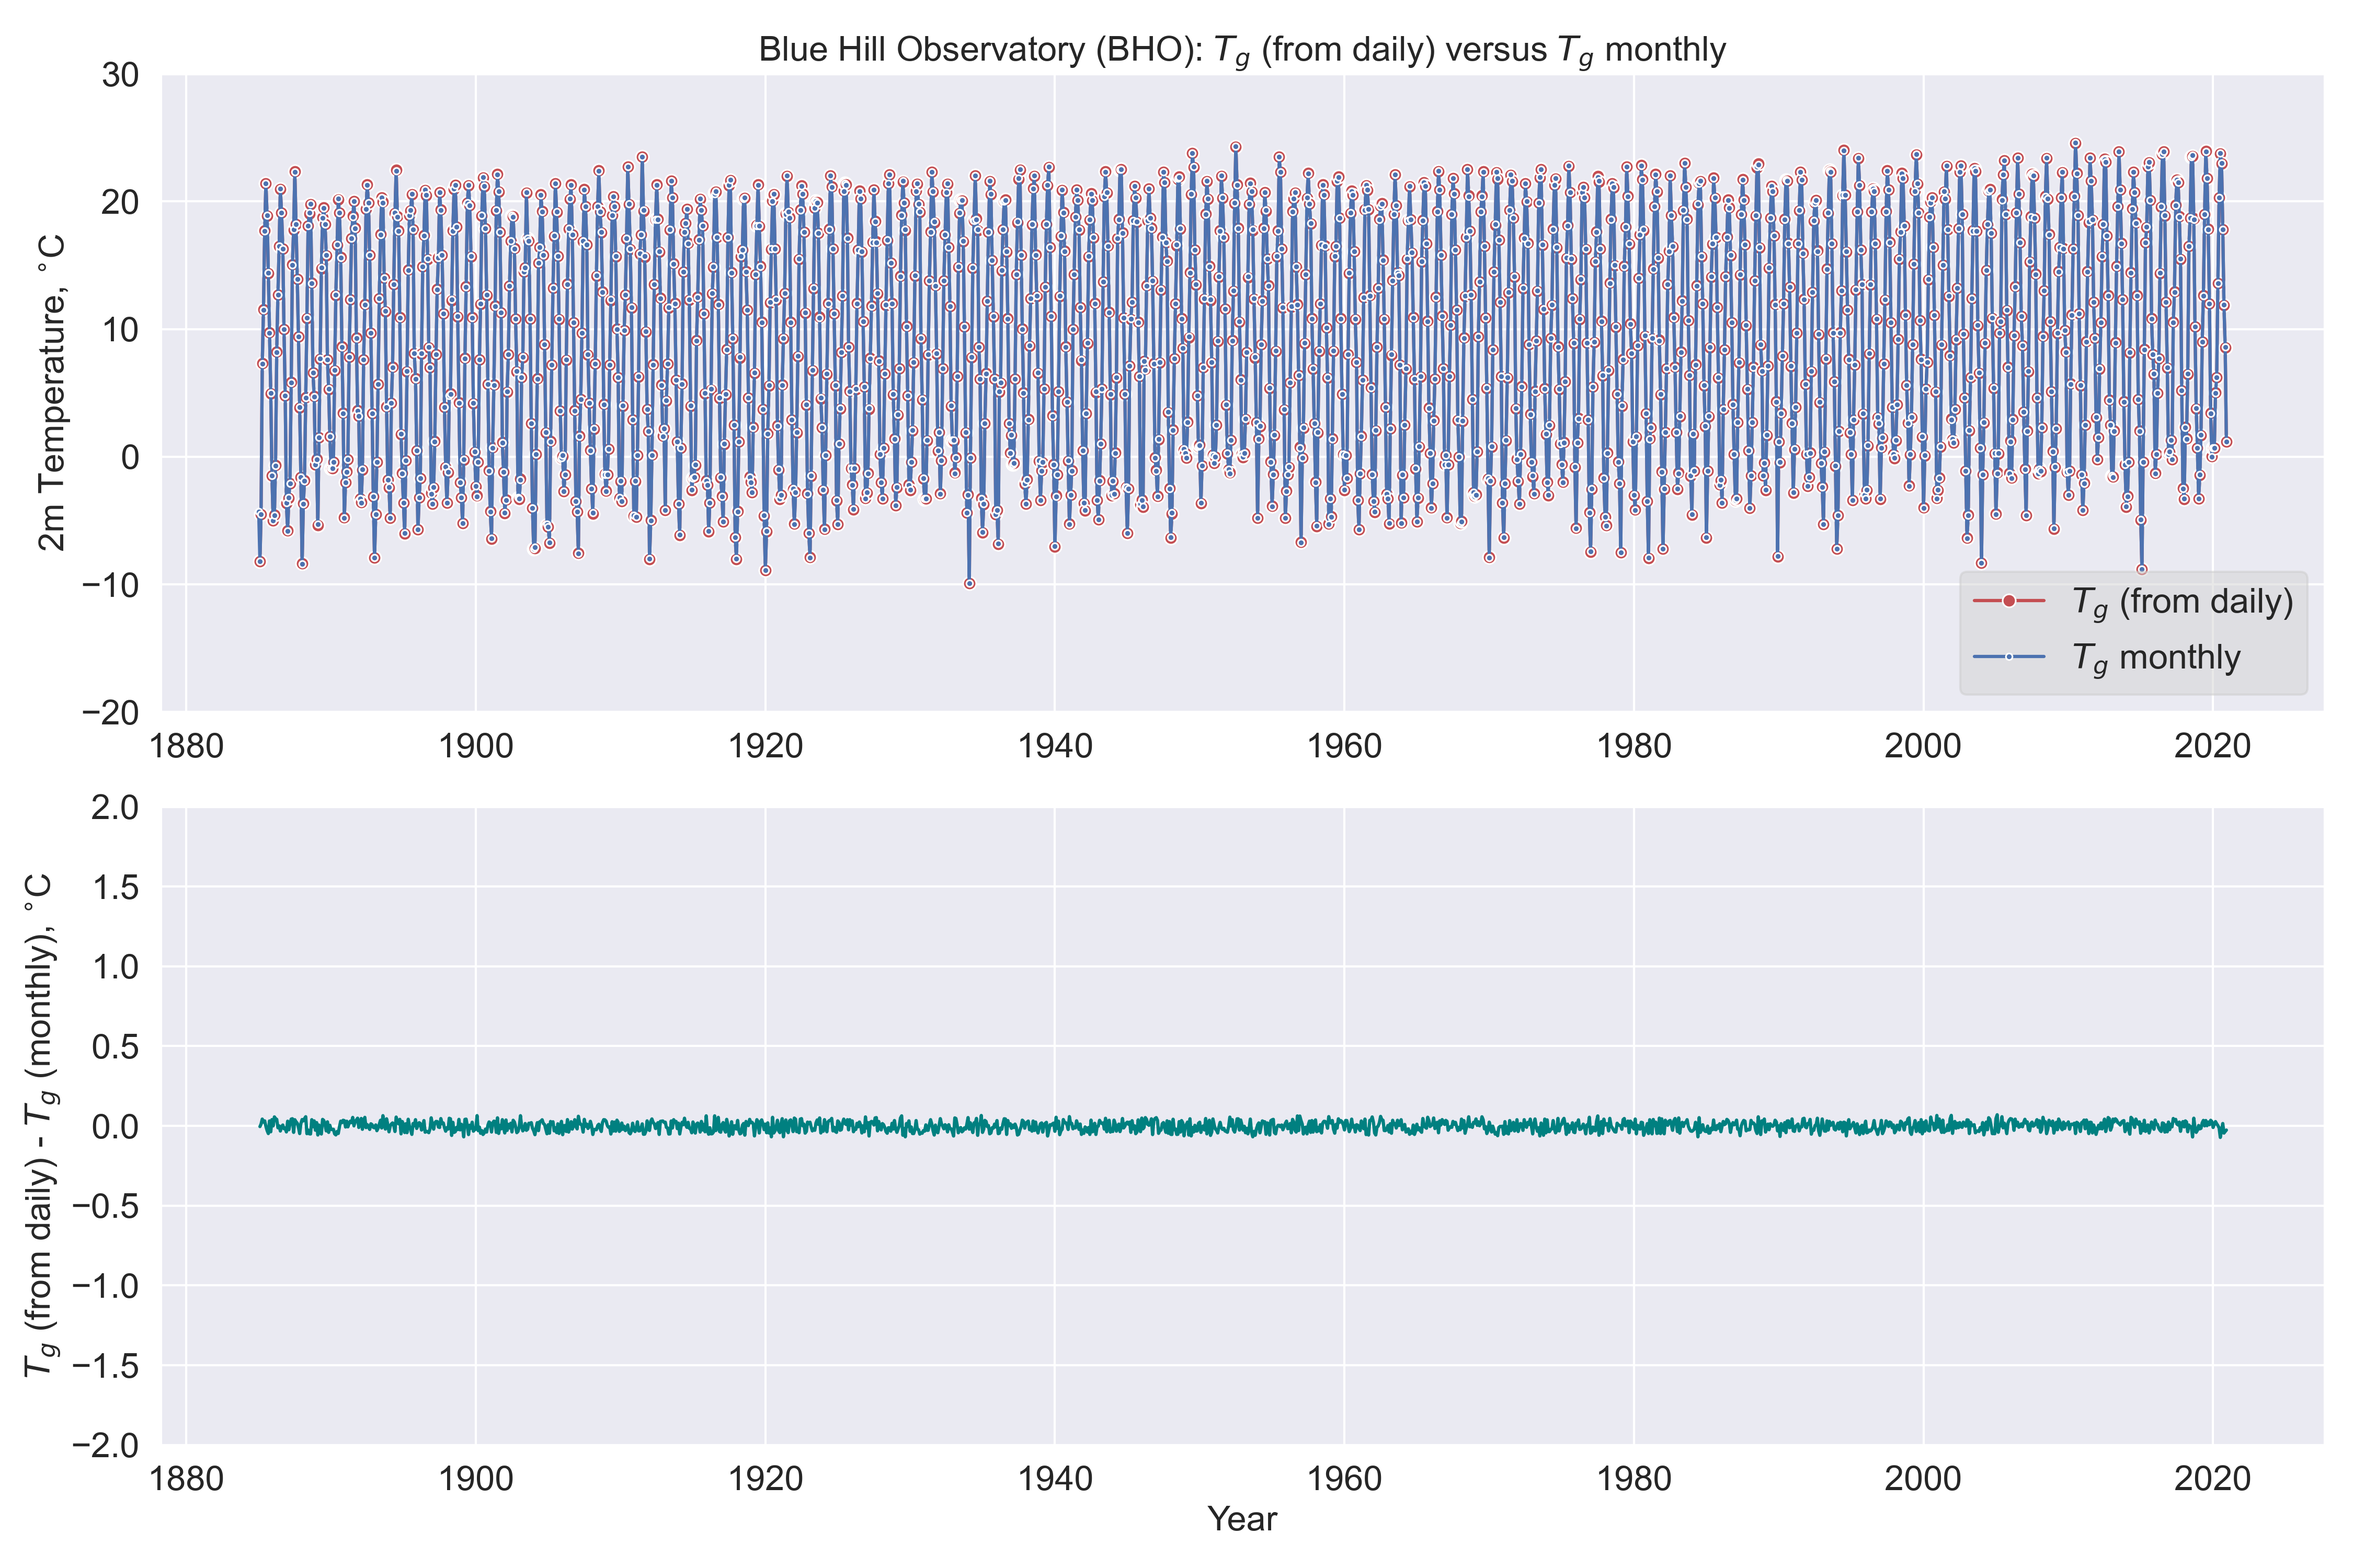
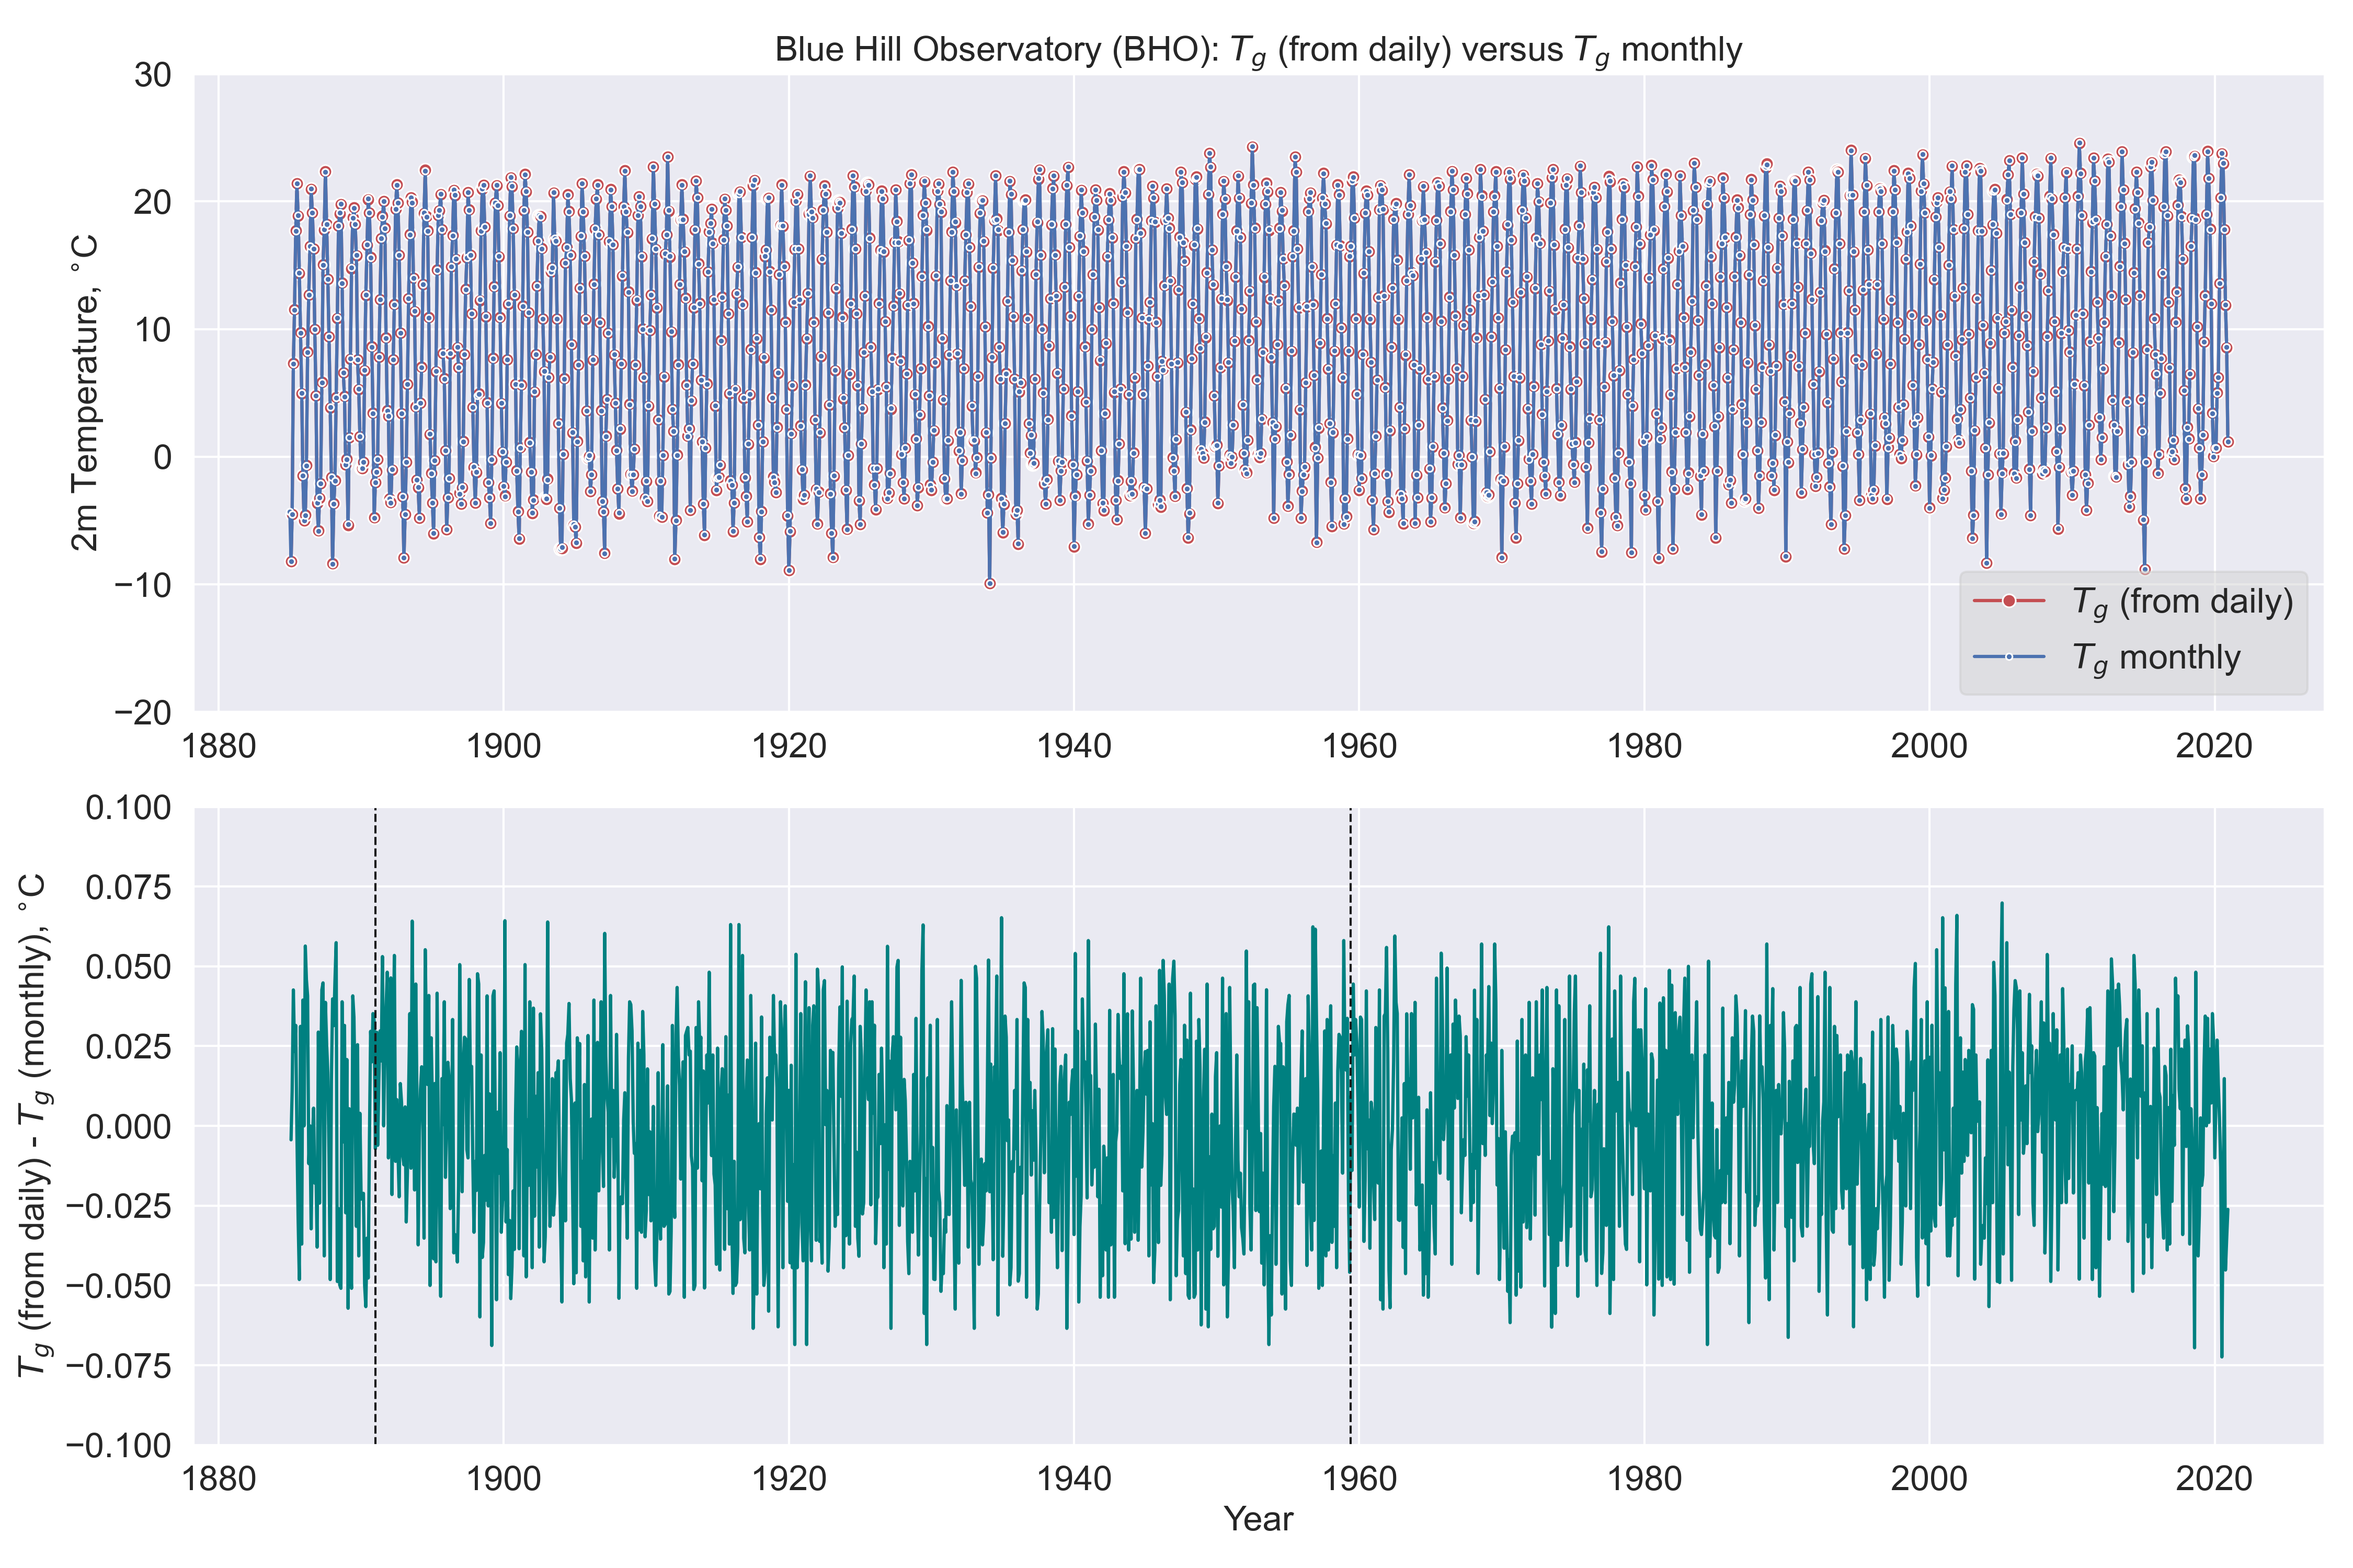
Add GHCNMv4 data to BHO batch

diff --git a/load-new-england-datasets.py b/load-new-england-datasets.py
@@ -4,8 +4,8 @@
 #------------------------------------------------------------------------------
 # PROGRAM: load-new-england-datasets.py
 #------------------------------------------------------------------------------
-# Version 0.3
-# 16 June, 2021
+# Version 0.4
+# 19 June, 2021
 # Michael Taylor
 # https://patternizer.github.io
 # patternizer AT gmail DOT com
@@ -102,6 +102,7 @@ load_historical_observations = True
 load_bho_observations = True
 load_neighbouring_stations = True
 load_glosat = True
+load_ghcnm = True
 color_palette = 'viridis_r'
 
 #------------------------------------------------------------------------------
@@ -139,6 +140,81 @@ def is_leap_and_29Feb(s):
     
 #==============================================================================
 # LOAD: Datasets
+#==============================================================================
+
+if load_ghcnm == True:
+    
+    # LOAD: GHCNM-v4 (QCU and QCF)
+        
+    df_ghcnmv4_qcu = pd.read_csv('OUT/df_ghcnmv4_qcu.csv', index_col=0)
+    df_ghcnmv4_qcu.index = pd.to_datetime(df_ghcnmv4_qcu.index)
+    df_ghcnmv4_qcf = pd.read_csv('OUT/df_ghcnmv4_qcf.csv', index_col=0)
+    df_ghcnmv4_qcf.index = pd.to_datetime(df_ghcnmv4_qcf.index)
+    
+else:
+    
+    #------------------------------------------------------------------------------    
+    # LOAD: GHCNM-v4 monthly adjusted and unadjusted data
+    #------------------------------------------------------------------------------
+        
+    print('loading GHCNM-v4 temperatures ...')
+    
+    nheader = 0
+    f = open('DATA/USC00190736-BHO/USC00190736-ghcnm-v4-qcu.dat')
+    lines = f.readlines()
+    dates = []
+    vals = []
+    for i in range(nheader,len(lines)):    
+        date = lines[i][11:15]
+        val = 12*[None]
+        for j in range(len(val)):
+            val[j] = lines[i][19+(j*8):19+(j*8)+5]
+        dates.append(date)
+        vals.append(val) 
+    f.close()    
+    years = np.array(years).astype('int')
+    vals = np.array(vals)
+    
+    df = pd.DataFrame(columns=['year','1','2','3','4','5','6','7','8','9','10','11','12'])
+    df['year'] = dates
+    for j in range(1,13):   
+        df[df.columns[j]] = [ float(vals[i][j-1])/100.0 for i in range(len(df)) ]
+    df_ghcnmv4_qcu = df.replace(-99.99,np.nan)
+    
+    ts = np.array(df_ghcnmv4_qcu.groupby('year').mean().iloc[:,0:12]).ravel()
+    t = pd.date_range(start=str(df_ghcnmv4_qcu.year.iloc[0]), periods=len(ts), freq='MS')
+    df_ghcnmv4_qcu = pd.DataFrame({'df_ghcnmv4_qcu':ts}, index=t)     
+    df_ghcnmv4_qcu.to_csv('df_ghcnmv4_qcu.csv')
+    
+    # LOAD: GHCNM-v4 (QCF)
+    
+    nheader = 0
+    f = open('DATA/USC00190736-BHO/USC00190736-ghcnm-v4-qcf.dat')
+    lines = f.readlines()
+    dates = []
+    vals = []
+    for i in range(nheader,len(lines)):    
+        date = lines[i][11:15]
+        val = 12*[None]
+        for j in range(len(val)):
+            val[j] = lines[i][19+(j*8):19+(j*8)+5]
+        dates.append(date)
+        vals.append(val) 
+    f.close()    
+    years = np.array(years).astype('int')
+    vals = np.array(vals)
+    
+    df = pd.DataFrame(columns=['year','1','2','3','4','5','6','7','8','9','10','11','12'])
+    df['year'] = dates
+    for j in range(1,13):   
+        df[df.columns[j]] = [ float(vals[i][j-1])/100.0 for i in range(len(df)) ]
+    df_ghcnmv4_qcf = df.replace(-99.99,np.nan)
+    
+    ts = np.array(df_ghcnmv4_qcf.groupby('year').mean().iloc[:,0:12]).ravel()
+    t = pd.date_range(start=str(df_ghcnmv4_qcf.year.iloc[0]), periods=len(ts), freq='MS')
+    df_ghcnmv4_qcf = pd.DataFrame({'df_ghcnmv4_qcf':ts}, index=t) 
+    df_ghcnmv4_qcf.to_csv('df_ghcnmv4_qcf.csv')
+
 #==============================================================================
 
 if load_glosat == True:
@@ -1024,6 +1100,8 @@ fig, axs = plt.subplots(2,1, figsize=(15,10))
 sns.lineplot(x=df_bho_2828.index, y=df_bho_2828['T2828'], ax=axs[0], marker='o', color='r', alpha=1.0, label='$T_{2828}$')
 sns.lineplot(x=df_bho_2828.index, y=df_bho_tg['Tg'], ax=axs[0], marker='.', color='b', alpha=1.0, label='$T_{g}$')
 sns.lineplot(x=df_bho_2828.index, y=df_bho_2828['T2828'] - df_bho_tg['Tg'], ax=axs[1], color='teal')
+plt.axvline(x=pd.Timestamp('1891-01-01'), ls='--', lw=1, color='k')
+plt.axvline(x=pd.Timestamp('1959-06-01'), ls='--', lw=1, color='k')
 axs[0].legend(loc='lower right', ncol=1, markerscale=1, facecolor='lightgrey', framealpha=0.5, fontsize=fontsize)    
 axs[0].set_xlabel('', fontsize=fontsize)
 axs[0].set_ylabel(r'2m Temperature, $^{\circ}$C', fontsize=fontsize)
@@ -1034,7 +1112,7 @@ axs[1].sharex(axs[0])
 axs[1].tick_params(labelsize=fontsize)    
 axs[1].set_xlabel('Year', fontsize=fontsize)
 axs[1].set_ylabel(r'$T_{2828}$-$T_{g}$, $^{\circ}$C', fontsize=fontsize)
-axs[1].set_ylim(-2,2)
+axs[1].set_ylim(-1.5,0.5)
 fig.tight_layout()
 plt.savefig(figstr, dpi=300)
 plt.close('all')
@@ -1073,6 +1151,8 @@ sns.lineplot(x=df_bho_tg.index, y='Tgm', data=df_bho_monthly, ax=axs[0], marker=
 sns.lineplot(x=df_bho_tg.index, y='Tg', data=df_bho_monthly, ax=axs[0], marker='.', color='b', alpha=1.0, label='$T_{g}$ monthly')
 sns.lineplot(x=df_bho_tg.index, y=df_bho_monthly['Tgm']-df_bho_monthly['Tg'], data=df_bho_monthly, ax=axs[1], color='teal')
 axs[0].legend(loc='lower right', ncol=1, markerscale=1, facecolor='lightgrey', framealpha=0.5, fontsize=fontsize)    
+plt.axvline(x=pd.Timestamp('1891-01-01'), ls='--', lw=1, color='k')
+plt.axvline(x=pd.Timestamp('1959-06-01'), ls='--', lw=1, color='k')
 axs[0].set_xlabel('', fontsize=fontsize)
 axs[0].set_ylabel(r'2m Temperature, $^{\circ}$C', fontsize=fontsize)
 axs[0].set_title(titlestr, fontsize=fontsize)
@@ -1082,7 +1162,7 @@ axs[1].sharex(axs[0])
 axs[1].tick_params(labelsize=fontsize)    
 axs[1].set_xlabel('Year', fontsize=fontsize)
 axs[1].set_ylabel(r'$T_{g}$ (from daily) - $T_{g}$ (monthly), $^{\circ}$C', fontsize=fontsize)
-axs[1].set_ylim(-2,2)
+axs[1].set_ylim(-0.1,0.1)
 fig.tight_layout()
 plt.savefig(figstr, dpi=300)
 plt.close('all')
@@ -1425,35 +1505,29 @@ fig.tight_layout()
 plt.savefig(figstr, dpi=300)
 plt.close('all')
 
-# PLOT: BHO timeseries from all source
+# PLOT: BHO timeseries from all sources (no Tx or Tn)
 
 print('plotting BHO timeseries (all sources) ... ')
 
-sequential_colors = sns.color_palette(color_palette, 3)
+sequential_colors = sns.color_palette(color_palette, 5)
 sns.set_palette(sequential_colors)
 
-figstr = 'bho-timeseries-all-sources.png'
+figstr = 'bho-timeseries-all-sources-nominmax.png'
 titlestr = 'BHO: all sources'
 
 fig, ax = plt.subplots(figsize=(15,10))
-sns.lineplot(x=df_bho_2828.index, y=df_bho_2828['T2828'], marker='o', alpha=0.5, legend=False)
-sns.lineplot(x=df_bho_2828.index, y=(pd.Series(df_bho_2828['T2828']).rolling(24,center=True).mean()).ewm(span=24, adjust=False).mean(), ls='-', lw=3, legend=True, label=r'$T_{2828}$ 2yr MA: BHO')
-sns.lineplot(x=df_bho_2828.index, y=df_bho_tg['Tg'], marker='.', alpha=0.5, legend=False)
-sns.lineplot(x=df_bho_2828.index, y=(pd.Series(df_bho_tg['Tg']).rolling(24,center=True).mean()).ewm(span=24, adjust=False).mean(), ls='-', lw=3, legend=True, label=r'$T_{g}$ 2yr MA: BHO (monthly)')
-sns.lineplot(x=df_bho_tg.index, y=df_bho_monthly['Tgm'], alpha=0.5, legend=False)
-sns.lineplot(x=df_bho_tg.index, y=(pd.Series(df_bho_monthly['Tgm']).rolling(24,center=True).mean()).ewm(span=24, adjust=False).mean(), ls='-', lw=2, legend=True, label=r'$T_{g}$ 2yr MA: BHO (from daily)')
-#sns.lineplot(x=df_bho_tg.index, y=df_bho_monthly['Tmin'], alpha=0.5, legend=False)
-sns.lineplot(x=df_bho_tg.index, y=(pd.Series(df_bho_monthly['Tmin']).rolling((24),center=True).mean()).ewm(span=(24), adjust=False).mean(), ls='--', lw=2, legend=True, label=r'$T_{n}$ 2yr MA: BHO (from daily)')
-#sns.lineplot(x=df_bho_tg.index, y=df_bho_monthly['Tmax'], alpha=0.5, legend=False)
-sns.lineplot(x=df_bho_tg.index, y=(pd.Series(df_bho_monthly['Tmax']).rolling((24),center=True).mean()).ewm(span=(24), adjust=False).mean(), ls='--', lw=2, legend=True, label=r'$T_{x}$ 2yr MA: BHO (from daily)')
-sns.lineplot(x=df_blue_hill.index, y=df_blue_hill['blue_hill'], marker='.', alpha=0.5, legend=False)
-sns.lineplot(x=df_blue_hill.index, y=(pd.Series(df_blue_hill['blue_hill']).rolling(24,center=True).mean()).ewm(span=24, adjust=False).mean(), ls='-', lw=3, legend=True, label=r'$T_{g}$ 2yr MA: GloSAT')
-ax.set_ylim(-20,30)
+sns.lineplot(x=df_bho_2828.index, y=(pd.Series(df_bho_2828['T2828']).rolling(24,center=True).mean()).ewm(span=24, adjust=False).mean(), ls='-', lw=5, color='r', alpha=1, zorder=5, legend=True, label=r'$T_{2828}$ 2yr MA: BHO')
+sns.lineplot(x=df_bho_2828.index, y=(pd.Series(df_bho_tg['Tg']).rolling(24,center=True).mean()).ewm(span=24, adjust=False).mean(), ls='-', lw=5, color='b', alpha=1, zorder=5, legend=True, label=r'$T_{g}$ 2yr MA: BHO')
+sns.lineplot(x=df_blue_hill.index, y=(pd.Series(df_blue_hill['blue_hill']).rolling(24,center=True).mean()).ewm(span=24, adjust=False).mean(), ls='-', lw=5, color='g', alpha=1, zorder=5, legend=True, label=r'$T_{g}$ 2yr MA: GloSAT')
+plt.plot(df_ghcnmv4_qcf.index, (pd.Series(df_ghcnmv4_qcf['df_ghcnmv4_qcf']).rolling(24,center=True).mean()).ewm(span=24, adjust=False).mean(), ls='-', lw=2, color='k', zorder=10, label=r'$T_{g}$ 2yr MA: GHCNMv4 (QCF)')
+plt.fill_between(df_ghcnmv4_qcu.index, 6, (pd.Series(df_ghcnmv4_qcu['df_ghcnmv4_qcu']).rolling(24,center=True).mean()).ewm(span=24, adjust=False).mean(), color='k', alpha=0.1, zorder=3, label=r'$T_{g}$ 2yr MA: GHCNMv4 (QCU)')
+plt.axvline(x=pd.Timestamp('1891-01-01'), ls='--', lw=1, color='k', zorder=20)
+plt.axvline(x=pd.Timestamp('1959-06-01'), ls='--', lw=1, color='k', zorder=20)
 plt.xlabel('Year', fontsize=fontsize)
 plt.ylabel(r'2m Temperature, $^{\circ}$C', fontsize=fontsize)
 plt.title(titlestr, fontsize=fontsize)
 plt.tick_params(labelsize=fontsize)    
-plt.legend(loc='lower right', ncol=3, markerscale=1, facecolor='lightgrey', framealpha=0.5, fontsize=fontsize)    
+plt.legend(loc='upper left', ncol=1, markerscale=1, facecolor='lightgrey', framealpha=0.5, fontsize=fontsize)    
 fig.tight_layout()
 plt.savefig(figstr, dpi=300)
 plt.close('all')
